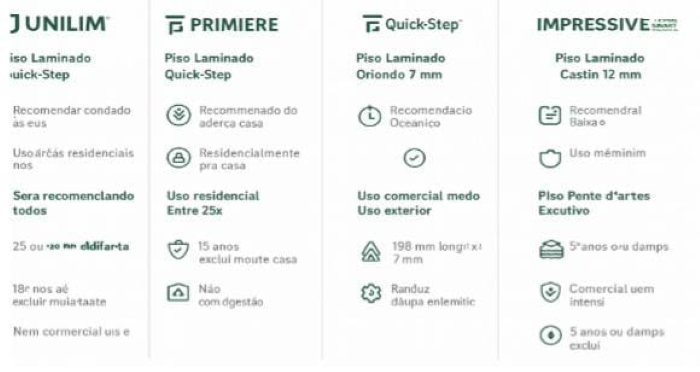
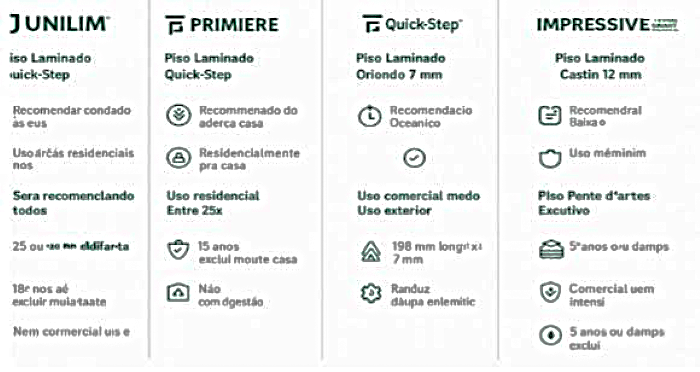
html e css perfeito

diff --git a/index.html b/index.html
@@ -33,7 +33,7 @@
     <main>
         <section id="sobre" class="about-hero">
             <div class="about-inner">
-                <h2>Sobre</h2>
+                <h2>Nosso Diferencial</h2>
                 <p>Oliver Pisos – Qualidade e confiança desde 2015</br>
 
 <br>Desde 2015, a Oliver Pisos oferece as melhores opções em pisos laminados e pisos vinílicos, garantindo beleza, conforto e durabilidade para o seu ambiente. Trabalhamos com venda e instalação profissional, sempre prezando pelo acabamento impecável e pelo atendimento de confiança que nossos clientes já conhecem.</br>
@@ -41,20 +41,21 @@
 <br>A instalação é cobrada à parte, realizada por equipe especializada, e o frete varia conforme a localização do cliente, garantindo um serviço personalizado e justo para cada região.</br>
 
 Na Oliver Pisos, você encontra variedade, preço justo e a segurança de escolher quem realmente entende do assunto.</p>
-    <p>Acesse o nosso catálogo para ver fotos de atendimento reais  <a href="https://wa.me/c/553196511118" target="_blank"> clique aqui<a></p>
+    <p>Acesse o nosso catálogo para ver fotos de atendimento reais  <a href="https://wa.me/c/553196511118" target="_blank"> clique aqui<a></p></br>
 
         
         <div class="hero-content">
             <a class="button" href="#produtos">Ver produtos</a>
         </div>
-        </section>
+        </section></br></br>
 
         <section id="produtos" class="produtos">
             
 
             <section class="banner">
-                <img src="imagens/diferencas.png" alt="diferencas">
-            <div class="Lista de produtos">
+                <img src="imagens/diferencasnitidez.png" alt="diferencas"></section>
+
+            <div class="lista-de-produtos">
                 <h1>Nossos Produtos</h1>
                 <h2>Pisos Laminados</h2>
                 <article class="card produtos-item">
@@ -874,20 +875,8 @@ Na Oliver Pisos, você encontra variedade, preço justo e a segurança de escolh
 
 
                         <section class="banner">
-                            <img src="imagens/informacoes.png" alt="Informações">
+                            <img src="imagens/informacoesnitidez.png" alt="Informações">
                 
-
-                 <h2>Pisos vinílicos</h2>
-
-                 <!--Piso Vinilicos Descrição-->
-                        <section id="produtos" class="produtos">
-                        <h3>Pisos Vinilicos</h3>
-                        <p class="subtitle">Piso resistente à água Quick Step Linha Vision Laminado resistente à umidade com tecnologia HydroSeal. Ideal para áreas de maior circulação. Garantia: 25 anos residencial.</p>
-
-                        <div class="product-grid" id="productGrid">
-
-
-
-
+                   
 </body>
 </html>

diff --git a/style.css b/style.css
@@ -3,17 +3,64 @@ body{
 
 }
 
+.brand{
+    text-align: center;width: 100%;padding: 10px;
+}
+
 .product-grid{
-    display: grid;gap: 20px;  grid-template-columns: repeat(auto-fit,minmax(250px,2fr)) ; padding: 10px;width: 100%;box-sizing: border-box;
+    display: grid;gap: 10px;  grid-template-columns: repeat(auto-fit,minmax(250px,2fr)) ; padding: 10px;width: 100%;box-sizing: border-box;
 }
 
 .product-grid img{
-width: 100%; height:400px; object-fit:cover; border-radius: 20px;
+width: 100%; height:450px; object-fit:fill; border-radius: 20px;
 
 }
 
+.card {
+    text-align: center;
+}
+
 .card.produtos-item{
-    background-color: #30d34b; border-radius: 10px; padding: 15px; box-shadow: 0 3px 8px rgba(0,0,0,0.15px); display: flex; flex-direction: column;align-items: center;
+    background-color: #6bbe79; border-radius: 10px; padding: 20px; box-shadow: 5 3px 15px rgba(0,0,0,0.15px); display: flex; flex-direction: column;align-items: center;
+}
+
+.card.produtos-itens img{
+    width: 80%; border-radius: 10px; object-fit: cover;
+}
+
+.card-info h3{
+    margin: 5px 0; text-align: justify;
+}
+
+.card-bootom{
+    width: 100%;margin-top: 20px;
+}
+
+#sobre{
+    background-color: #6fb277;padding: 20px;text-align: center;
+}
+
+.lista-de-produtos h2{
+    text-align: center;background-color: #116f0d;color: white;
+}
+
+.banner img{
+    display: block;margin-left: auto;margin-right: auto;text-align: center;width: 95%;padding: 10px;height: 300px;
+}
+.preco{
+    font-size: 18px;display: block;text-align: center;margin-bottom: 15px;
+}
+
+.card-bootom input[type="number"]{
+width: 75%;padding: 6px;margin: 6px 0;font-size: 16px;border-radius: 8px;
+}
+
+.card-bootom button{
+    width: 80%;padding:8px;background-color: #084e06;color:white;border: none;border-radius: 8px;cursor: pointer;
+}
+
+.card-bootom button:hover{
+    background: #5ae799;
 }
 
 
